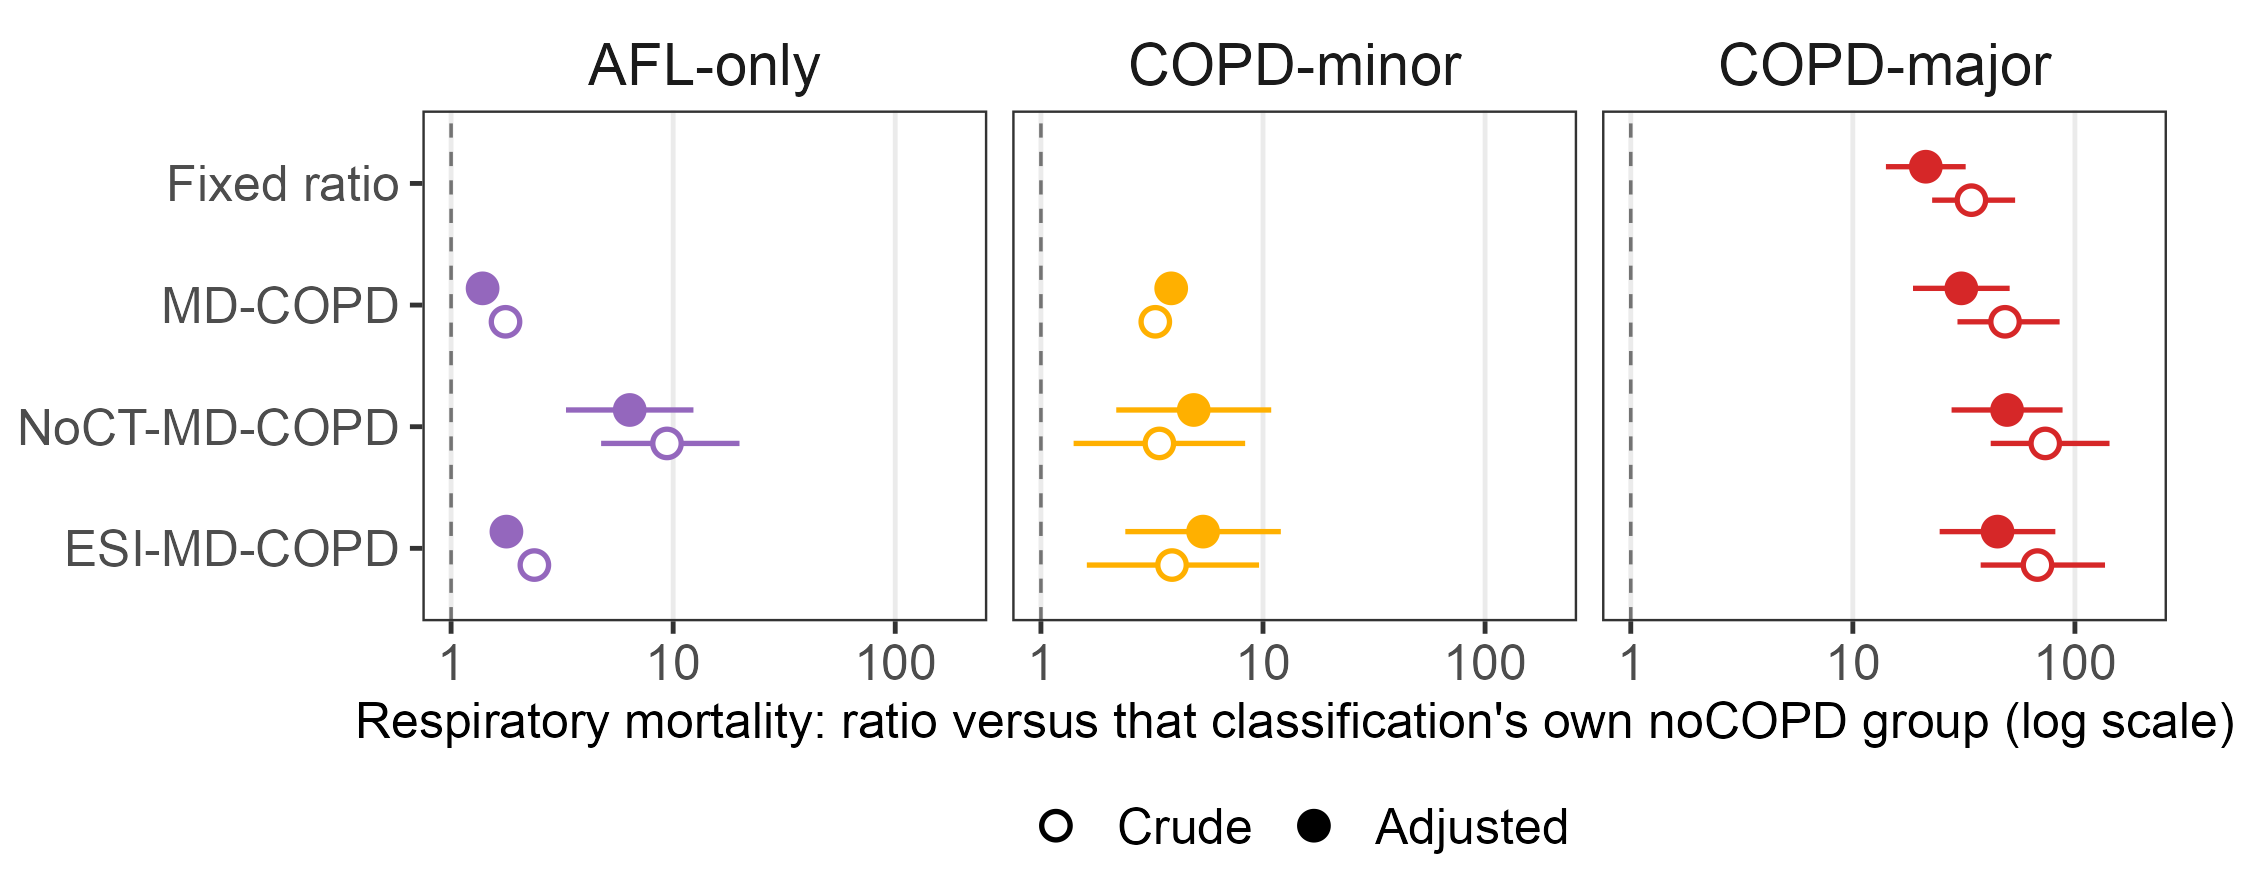
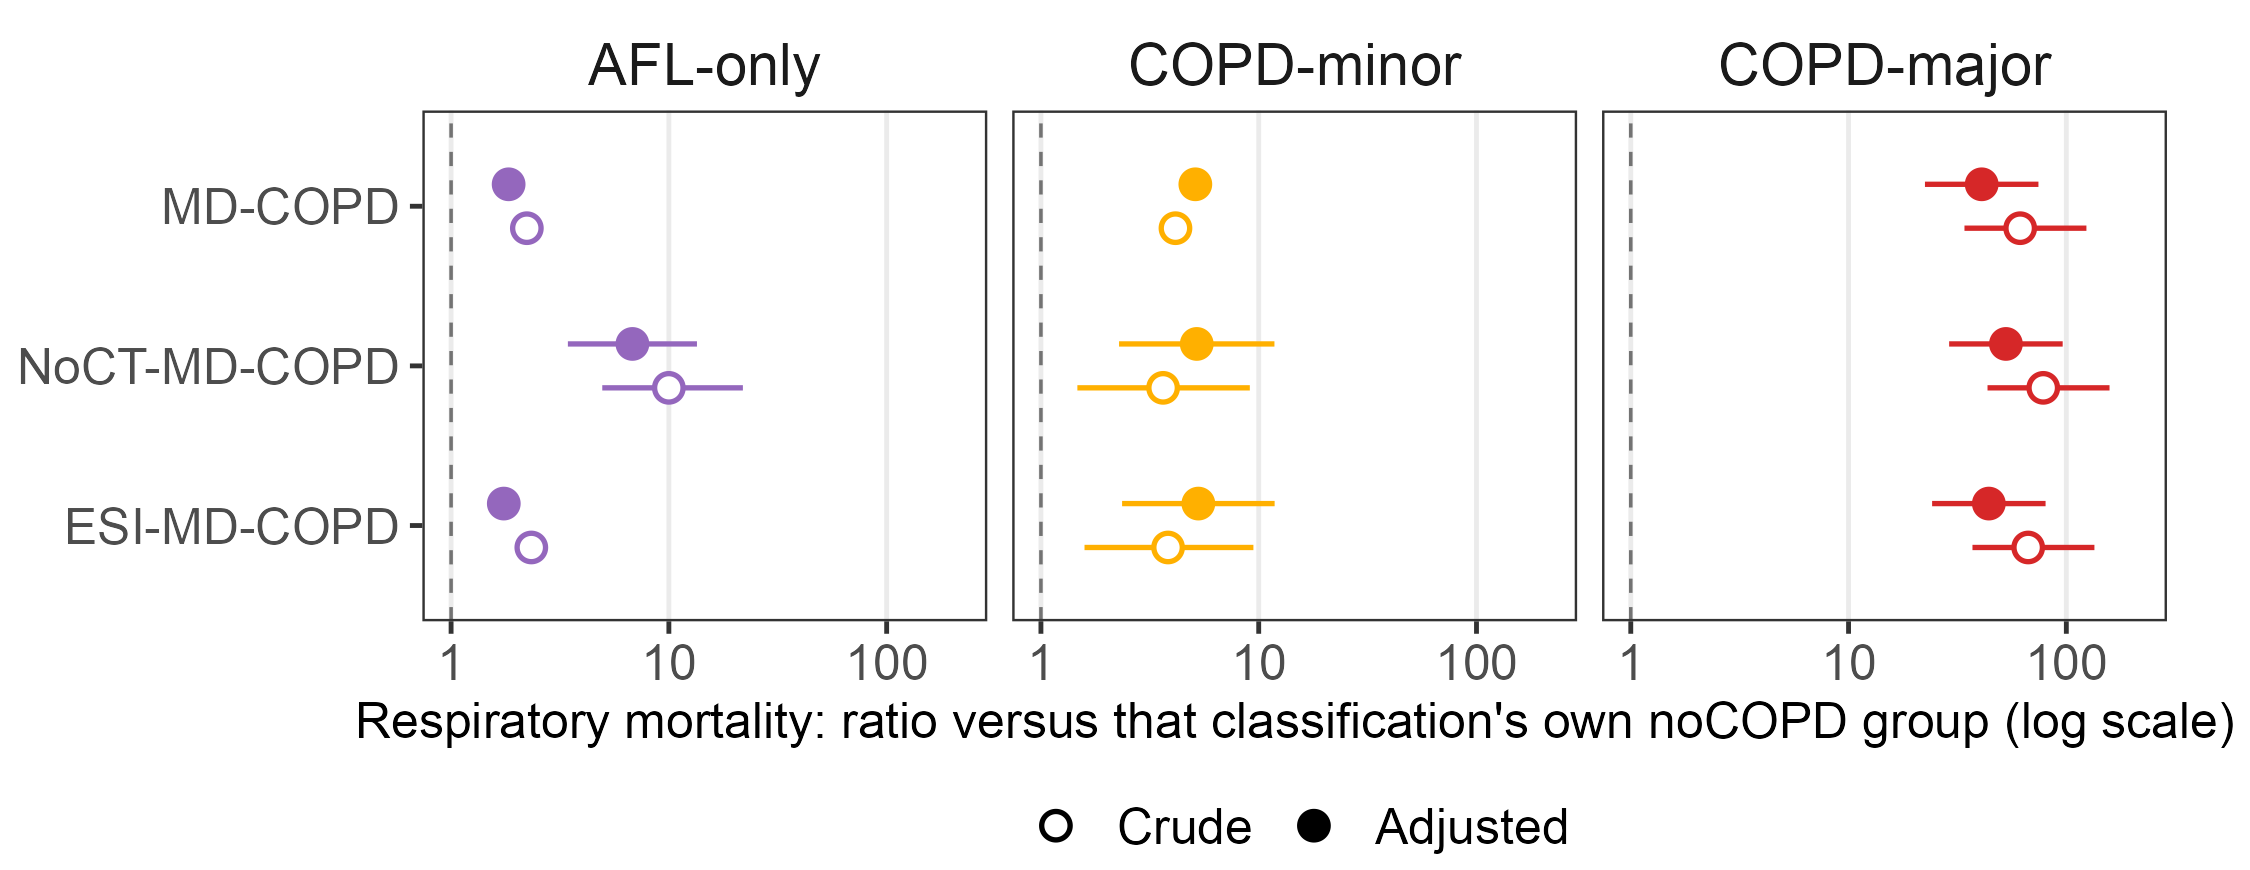
One reference for every multidimensional comparison
Risk was being reported twice, first against each classification's own noCOPD
group and then again against the common reference. Everything that compares the
multidimensional classifications now uses the common reference and nothing is
reported the other way.

  - The two AFL-only paragraphs are one, built on Pete's text with the
    common-reference numbers: crude respiratory rate ratio 10.00 (4.95 to
    21.87) under NoCT-MD-COPD, against 2.23 and 2.34 with no interval.
  - Figures 2 to 4 and Supplemental Tables S3a to S3c switch to the common
    reference. The fixed ratio is dropped from both; its comparison with the
    multidimensional framework is the source report's question, not this one.
  - Methods states the common reference once, where the models are described.
  - Abstract carries the common-reference figures.

Also adopts Pete's edits from the PJC version of 2026-09-08 11:52: "no excess
risk", the parenthetical explaining why no interval is given, the trimmed
closing sentence, and the split of the reclassification sentence.

verify.R: 140 claims, 0 failed.

diff --git a/ctfree/build_supplement.py b/ctfree/build_supplement.py
@@ -83,52 +83,65 @@ def s2_ct(doc):
 
 
 def s3_risk_by_outcome(doc):
-    """The main-text risk table, split by outcome. One table per outcome keeps
-    each on a single scale; the main text shows these as Figures 2 to 4."""
-    risk = {(r["schema"], r["category"]): r for r in load(ASSETS, "schema_risk.csv")}
+    """Risk by outcome, every group against the common noCOPD reference. The
+    fixed ratio is not carried: its comparison with the multidimensional
+    framework is the source report's question, not this one."""
+    risk = {(r["schema"], r["category"]): r
+            for r in load(ASSETS, "consensus_ref_risk.csv")}
     crd = {(r["schema"], r["category"], r["outcome"]): r
-           for r in load(ASSETS, "schema_crude.csv")}
-    NAME = {"S1": "Fixed ratio", "S2": "MD-COPD",
-            "S3": "NoCT-MD-COPD", "S4": "ESI-MD-COPD"}
-    CATS = {"S1": ["noCOPD", "COPD"],
-            "S2": ["noCOPD", "AFL-only", "COPD-minor", "COPD-major"]}
-    for suffix, okey, olabel, est_col, n_col in (
-            ("a", "all",  "all-cause mortality",   "all_HR",   "n_mort"),
-            ("b", "resp", "respiratory mortality", "resp_HR",  "n_mort"),
-            ("c", "exac", "exacerbations",         "exac_IRR", "n_exac")):
+           for r in load(ASSETS, "consensus_ref_crude.csv")}
+    ref = load(ASSETS, "consensus_ref_group.csv")[0]
+    NAME = {"S2": "MD-COPD", "S3": "NoCT-MD-COPD", "S4": "ESI-MD-COPD"}
+    GRPS = ["AFL-only", "COPD-minor", "COPD-major"]
+    FLAG = "\u2020"
+
+    def few(r, key):
+        return r is not None and r[key].upper() in ("TRUE", "T")
+
+    for suffix, okey, olabel, est_col, n_col, flag_col in (
+            ("a", "all",  "all-cause mortality",   "all_HR",   "n_mort", "all_few_events"),
+            ("b", "resp", "respiratory mortality", "resp_HR",  "n_mort", "resp_few_events"),
+            ("c", "exac", "exacerbations",         "exac_IRR", "n_exac", "all_few_events")):
         heading(doc, f"Supplemental Table S3{suffix}. Risk of {olabel} "
-                     f"under each classification")
+                     f"against the common noCOPD reference")
         rows, seen = [], set()
-        for sc in ("S1", "S2", "S3", "S4"):
-            for c in CATS.get(sc, CATS["S2"]):
+        for sc in ("S2", "S3", "S4"):
+            for c in GRPS:
                 r = risk.get((sc, c)); k = crd.get((sc, c, okey))
                 if r is None:
                     continue
-                if c == "noCOPD":
-                    ci = cr = "reference"
-                else:
-                    stem = "exac" if okey == "exac" else okey
-                    ci = ("not estimable" if r[est_col] in ("", "NA")
-                          else f"{float(r[est_col]):.2f} "
-                               f"({float(r[stem+'_LCI']):.2f}–{float(r[stem+'_UCI']):.2f})")
-                    cr = ("not estimable" if k is None or k["rr"] in ("", "NA")
-                          else f"{float(k['rr']):.2f} "
-                               f"({float(k['lo']):.2f}–{float(k['hi']):.2f})")
+                stem = "exac" if okey == "exac" else okey
+                lci = "exac_LCI" if okey == "exac" else stem + "_LCI"
+                uci = "exac_UCI" if okey == "exac" else stem + "_UCI"
+                ci = (f"{float(r[est_col]):.2f}{FLAG}" if few(r, flag_col)
+                      else f"{float(r[est_col]):.2f} "
+                           f"({float(r[lci]):.2f}\u2013{float(r[uci]):.2f})")
+                cr = ("not estimable" if k is None else
+                      f"{float(k['rr']):.2f}{FLAG}" if few(k, "few_events")
+                      else f"{float(k['rr']):.2f} "
+                           f"({float(k['lo']):.2f}\u2013{float(k['hi']):.2f})")
                 rows.append([NAME[sc] if sc not in seen else "", c,
                              f"{int(r[n_col]):,}", cr, ci])
                 seen.add(sc)
-        add_table(doc, ["Classification", "Category", "n",
+        add_table(doc, ["Classification", "Group", "n",
                         "Crude rate ratio (95% CI)",
                         "Adjusted HR or IRR (95% CI)"],
                   rows, [1.24, 1.10, 0.62, 1.76, 1.78])
         legend(doc, f"Table S3{suffix}.",
-               f"Crude and adjusted risk of {olabel} within each classification's "
-               "own categories, against that classification's own noCOPD group. "
-               "Adjusted estimates carry age, sex, race, current smoking status, "
-               "pack-years and body mass index, with prior exacerbation frequency "
-               "added for exacerbations. Shown in the main text as Figures 2 to 4. "
-               "AFL-only, airflow limitation without other criteria; HR, hazard "
-               "ratio; IRR, incidence rate ratio; CI, confidence interval.")
+               f"Crude and adjusted risk of {olabel}, every group estimated "
+               f"against the same reference: the {int(ref['n_cohort']):,} "
+               "participants all three multidimensional classifications assign "
+               "to noCOPD. Because that group is noCOPD under each "
+               "classification, it shares no participant with any group shown, "
+               "and an estimate under one classification is on the same scale as "
+               "an estimate under another. Adjusted models carry age, sex, race, "
+               "current smoking status, pack-years and body mass index, with "
+               "prior exacerbation frequency added for exacerbations. "
+               f"{FLAG} fewer than 10 events in the group: the point estimate is "
+               "given without an interval. AFL-only, airflow limitation without "
+               "other criteria; HR, hazard ratio; IRR, incidence rate ratio; CI, "
+               "confidence interval.")
+        doc.add_paragraph()
 
 
 def s4_sweep(doc):

diff --git a/ctfree/build_manuscript.py b/ctfree/build_manuscript.py
@@ -566,14 +566,16 @@ def main():
              ("figure4_exacerbations.png", "exacerbations")], start=2):
         add_figure(doc, os.path.join(FIGS, png), f"Figure {i}.",
                    f"Crude (open circles) and adjusted (filled circles) risk of "
-                   f"{outcome} for each diagnostic category, under each "
-                   f"classification, against that classification's own noCOPD group. "
-                   f"Panels share the same rows and scale across Figures 2 to 4, so "
-                   f"the three outcomes are directly comparable. The fixed ratio has "
-                   f"a single COPD category and so appears only in the COPD-major "
-                   f"panel. A point drawn without an interval had fewer than 10 "
-                   f"events in that category, so no interval was estimated. "
-                   f"AFL-only, airflow limitation without other criteria.")
+                   f"{outcome} for each group, under each multidimensional "
+                   f"classification, against a reference common to all three: the "
+                   f"participants every classification assigns to noCOPD. Panels "
+                   f"share the same rows and scale across Figures 2 to 4, so the "
+                   f"three outcomes are directly comparable, and the common "
+                   f"reference makes an estimate under one classification "
+                   f"comparable with an estimate under another. A point drawn "
+                   f"without an interval had fewer than 10 events in that group, "
+                   f"so no interval was estimated. AFL-only, airflow limitation "
+                   f"without other criteria.")
 
     doc.save(OUT)
     print(f"wrote {OUT}\n  {n_i} Introduction, {n_m} Methods, {n_r} Results, "

diff --git a/ctfree/RESULTS.md b/ctfree/RESULTS.md
@@ -73,37 +73,27 @@ The AFL-only group withholds a COPD diagnosis from participants that would
 otherwise receive a COPD diagnosis based on the fixed ratio, so some of the
 benefit of MD-COPD rests upon the AFL-only subjects being at low risk for
 adverse COPD-related outcomes, such as mortality and respiratory exacerbations.
-In the original report, the AFL-only MD-COPD group showed no excess on any
-outcome, crude or adjusted. Under
-NoCT-MD-COPD however, this group carried substantially elevated risk, most
-markedly for respiratory mortality, where the crude rate ratio against its own
-no COPD group was 9.38 (95% CI: 4.74 to 19.89) compared with 1.76 under MD-COPD,
-an estimate resting on 2 respiratory deaths and reported without an interval
-{CRUDE-03, CRUDE-08}. Risk of all-cause mortality and
-exacerbations were also elevated in this group in the same direction (Figures 2
-to 4, Supplemental Tables S3a to S3c). Under the ESI-MD-COPD classification, the
-relative risk of respiratory mortality was nominally but not significantly
-elevated (RR 2.37, on 4 respiratory deaths and likewise without an interval)
-{CRUDE-04}. This demonstrates that removing
-the CT criteria without replacement makes it impossible in this framework to
-identify individuals with spirometric obstruction but no structural lung disease
-(as defined by visual emphysema and airway thickening), therefore producing an
-AFL-only group that is substantially contaminated by individuals at elevated
-risk of COPD-related outcomes.
-
-The estimates above are each made against their own classification's noCOPD
-group, and those groups differ in composition, so they cannot be compared
-between classifications. We therefore repeated the analysis against a single
-reference common to all three: the 3,745 participants every multidimensional
-classification assigns to noCOPD, a group that is by construction disjoint from
-every group it is compared against (Table 3). On this common scale the AFL-only
-group sat at the reference level under MD-COPD and under ESI-MD-COPD, with
-adjusted all-cause hazard ratios of 0.94 (95% CI: 0.70 to 1.26) and 0.96 (0.78
-to 1.19), but not under NoCT-MD-COPD, where the adjusted respiratory hazard
-ratio was 6.80 (3.44 to 13.46) {CONSREF-01, CONSREF-02, CONSREF-03, CONSREF-16}.
-The raw counts make the same point without a model: the AFL-only group contained
-2 respiratory deaths under MD-COPD and 4 under ESI-MD-COPD, against 34 under
-NoCT-MD-COPD {CONSREF-07, CONSREF-08, CONSREF-09}.
+To systematically compare the risk of the AFL-only, COPD-minor and COPD-major
+groups across the three multidimensional classifications, we defined a noCOPD
+group consisting of subjects assigned as noCOPD by all three methods in order to
+have a consistent reference group, and all estimates below are made against it
+(Table 3) {CONSREF-00}. In the original report, the AFL-only MD-COPD group
+showed no excess risk on any outcome, crude or adjusted. Against the common
+reference the AFL-only group sat at the reference level under MD-COPD and under
+ESI-MD-COPD, with adjusted all-cause hazard ratios of 0.94 (95% CI: 0.70 to
+1.26) and 0.96 (0.78 to 1.19) {CONSREF-01, CONSREF-02}. Under NoCT-MD-COPD
+however, this group carried substantially elevated risk, most markedly for
+respiratory mortality, where the crude rate ratio was 10.00 (95% CI: 4.95 to
+21.87) compared with 2.23 under MD-COPD and 2.34 under ESI-MD-COPD (no CI
+provided for either, since only 2 and 4 respiratory deaths were observed in
+those groups) {CONSREF-04, CONSREF-05, CONSREF-06}. Risk of all-cause mortality
+and exacerbations were also elevated in this group in the same direction
+(Figures 2 to 4, Supplemental Tables S3a to S3c). The raw counts make the same
+point without a model: the AFL-only group contained 2 respiratory deaths under
+MD-COPD and 4 under ESI-MD-COPD, against 34 under NoCT-MD-COPD {CONSREF-07,
+CONSREF-08, CONSREF-09}. This demonstrates that removing the CT criteria results
+in an AFL-only group that is contaminated by individuals at elevated risk of
+COPD-related outcomes.
 
 We next examined the COPD-minor group, where a replacement criterion must be met
 by participants with preserved spirometry. The three multidimensional

diff --git a/ctfree/METHODS.md b/ctfree/METHODS.md
@@ -56,12 +56,10 @@ negative binomial regression models with a follow-up-year offset
 current smoking status, pack-years and body mass index; exacerbation models
 additionally adjusted for prior exacerbation frequency at baseline, consistent
 with the original MD-COPD report. Models were fitted separately for each
-classification, and estimates are expressed relative to that classification's
-own noCOPD category.
+classification.
 
 Crude rate ratios are also reported, calculated as the observed event rate in
-each category divided by the observed rate in that classification's noCOPD
-category. Intervals for the crude mortality ratios are exact conditional
+each group divided by the observed rate in the common reference group. Intervals for the crude mortality ratios are exact conditional
 intervals for a ratio of Poisson rates. Exacerbation counts are overdispersed
 and clustered within participant, so their intervals are 95% percentile
 intervals from a subject resample bootstrap with B = 1,000 resamples, with the
@@ -70,13 +68,13 @@ group with fewer than 10 events; the rate ratio is given alone and flagged,
 since an interval built on a handful of deaths conveys precision the data do
 not carry.
 
-Because each classification's estimates are made against its own noCOPD
-category, and those categories differ in composition, estimates under one
-classification are not on the same scale as estimates under another. We
-therefore repeated the analysis against a single reference common to all
-three: the participants every multidimensional classification assigns to
-noCOPD. Every member of that group is noCOPD under each classification, so it
-shares no participant with any category it is compared against.
+All comparisons between the multidimensional classifications are made against
+a single common reference: the participants every multidimensional
+classification assigns to noCOPD. Every member of that group is noCOPD under
+each classification, so it shares no participant with any group it is compared
+against. A per-classification reference would differ in composition between
+classifications and estimates made against it would not be comparable, which is
+the comparison this study requires.
 
 Fixed-ratio COPD comprises the AFL-only and COPD-major categories of the
 MD-COPD framework, so the fixed-ratio model is nested within the four-category

diff --git a/ctfree/ABSTRACT.md b/ctfree/ABSTRACT.md
@@ -27,10 +27,11 @@ exacerbations and FEV₁ decline.
 participants out of COPD-major into AFL-only, the category that withholds a
 COPD diagnosis from participants with airflow limitation. These participants
 had structural disease identified only by CT, and the category that received
-them was no longer low risk, carrying 9.38 times the respiratory mortality of
-its own noCOPD group (95% CI: 4.74 to 19.89) against 1.76 under
+them was no longer low risk, carrying 10.00 times the respiratory mortality of
+a reference group common to all three classifications (95% CI: 4.95 to 21.87)
+against 2.23 under
 MD-COPD. Replacing the CT criteria with an ESI criterion reduced that loss to
-350 and returned the estimate to 2.37. Respiratory deaths in that group
+350 and returned the estimate to 2.34. Respiratory deaths in that group
 numbered 34 without CT, against 2 under MD-COPD and 4 with ESI. ESI-MD-COPD reproduced
 the MD-COPD categories better than NoCT-MD-COPD (held-out macro-averaged F1
 0.752 against 0.721), and the advantage was confined to the two categories
